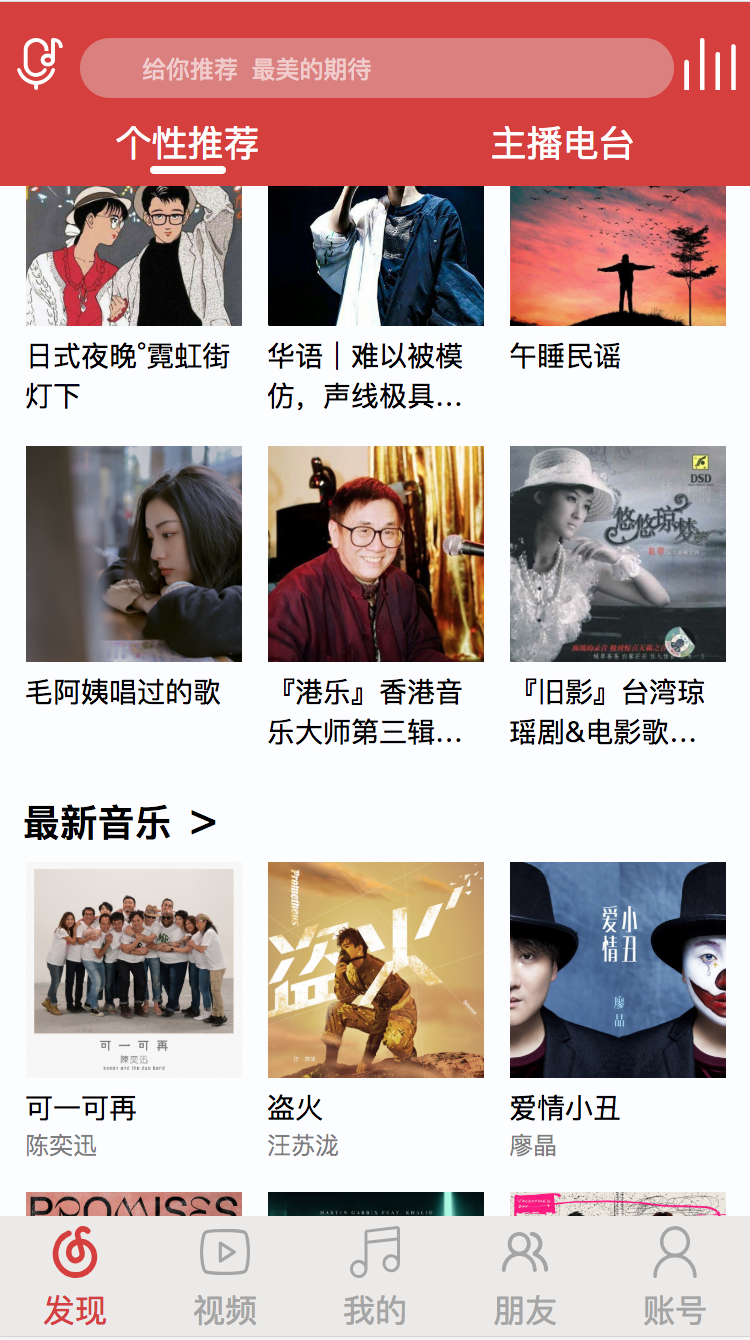
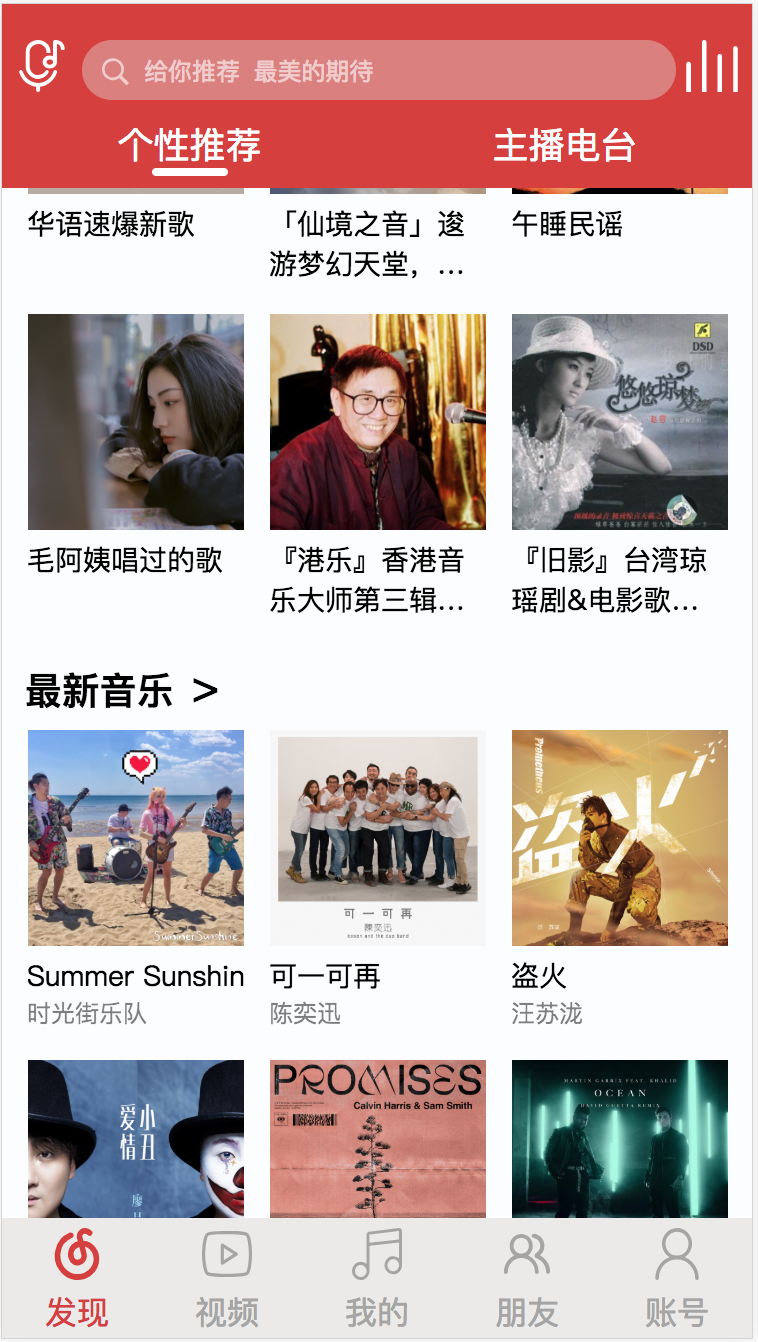
end

diff --git a/src/views/Search.vue b/src/views/Search.vue
@@ -3,6 +3,11 @@
     <div class="search-head">
       <input type="text" placeholder="猜你喜欢，猜不到..." v-model="keywords" @keyup.enter="search"/>
       <div class="search-cancel" @click="goback(-1)">取消</div>
+      <div class="head-sear">
+        <svg class="icon" aria-hidden="true">
+          <use xlink:href="#icon-fangdajing"></use>
+        </svg>
+      </div>
     </div>
     <div class="search-content">
       <ul v-for="(item, index) in songs" :key="index">
@@ -76,6 +81,7 @@ export default {
   border: 0;
   margin-left: 10px;
   background-color:rgba(225, 225, 225,0.4);
+  color: white;
   text-indent:30px;
 }
 ::-webkit-input-placeholder { /* WebKit, Blink, Edge */
@@ -85,6 +91,15 @@ export default {
   width: 50px;
   text-align: center;
   line-height: 28px;
+}
+.head-sear{
+  position: absolute;
+  top: 25px;
+  left:20px;
+}
+.head-sear .icon {
+  font-size: 1.2em;
+  opacity: 0.6;
 }
 /**/
 .search-content ul li{

diff --git a/src/components/head/Header.vue b/src/components/head/Header.vue
@@ -10,6 +10,11 @@
         </div>
         <div class="search" >
           <input type="text" placeholder="给你推荐  最美的期待" @click="search"/>
+          <div class="head-sear">
+            <svg class="icon" aria-hidden="true">
+              <use xlink:href="#icon-fangdajing"></use>
+            </svg>
+          </div>
         </div>
         <router-link to="/player">
           <div class="head-opt">
@@ -90,6 +95,7 @@ export default {
 .search{
   flex-grow: 1;
   margin-top: 10px;
+  position: relative;
 }
 .search>input{
   height:28px;
@@ -101,6 +107,15 @@ export default {
 }
 ::-webkit-input-placeholder { /* WebKit, Blink, Edge */
   color: rgba(255,255,255,0.6);
+}
+.head-sear{
+  position: absolute;
+  top: 7px;
+  left:7px;
+}
+.head-sear .icon {
+  font-size: 1.2em;
+  opacity: 0.6;
 }
 .search-nav .head-opt{
   margin-top: 10px;

diff --git a/src/views/Player.vue b/src/views/Player.vue
@@ -268,10 +268,11 @@ export default {
           theTime1 = 60 // 分
         }
       }
+      // 多少秒
       if (parseInt(theTime) < 10) {
-        var result = '0:0' + parseInt(theTime) + ''
+        var result = '0:0' + parseInt(theTime)
       } else {
-        result = '0:' + parseInt(theTime) + ''
+        result = '0:' + parseInt(theTime)
       }
       // 多少分钟时
       if (theTime1 > 0) {
@@ -280,7 +281,7 @@ export default {
         } else {
           result = parseInt(theTime)
         }
-        result = '0' + parseInt(theTime1) + ':' + result
+        result = parseInt(theTime1) + ':' + result
       }
       // 多少小时时
       if (theTime2 > 0) {

diff --git a/README.md b/README.md
@@ -10,11 +10,11 @@ vuejs仿写网易云音乐webapp
 
 项目主要截图：
 ----
-![](https://github.com/Yin-Hongwei/vue-wangyiyun/blob/master/img/wangyiyun1.png)<br></br>
-![](https://github.com/Yin-Hongwei/vue-wangyiyun/blob/master/img/wangyiyun2.png)<br></br>
-![](https://github.com/Yin-Hongwei/vue-wangyiyun/blob/master/img/wangyiyun3.png)<br></br>
-![](https://github.com/Yin-Hongwei/vue-wangyiyun/blob/master/img/wangyiyun4.png)<br></br>
-![](https://github.com/Yin-Hongwei/vue-wangyiyun/blob/master/img/wangyiyun5.png)<br></br>
+<img src="https://github.com/Yin-Hongwei/vue-wangyiyun/blob/master/img/wangyiyun1.png" width="300"/>
+<img src="https://github.com/Yin-Hongwei/vue-wangyiyun/blob/master/img/wangyiyun2.png" width="300"/>
+<img src="https://github.com/Yin-Hongwei/vue-wangyiyun/blob/master/img/wangyiyun3.png" width="300"/>
+<img src="https://github.com/Yin-Hongwei/vue-wangyiyun/blob/master/img/wangyiyun4.png" width="300"/>
+<img src="https://github.com/Yin-Hongwei/vue-wangyiyun/blob/master/img/wangyiyun5.png" width="300"/>
 
 功能实现
 ----
